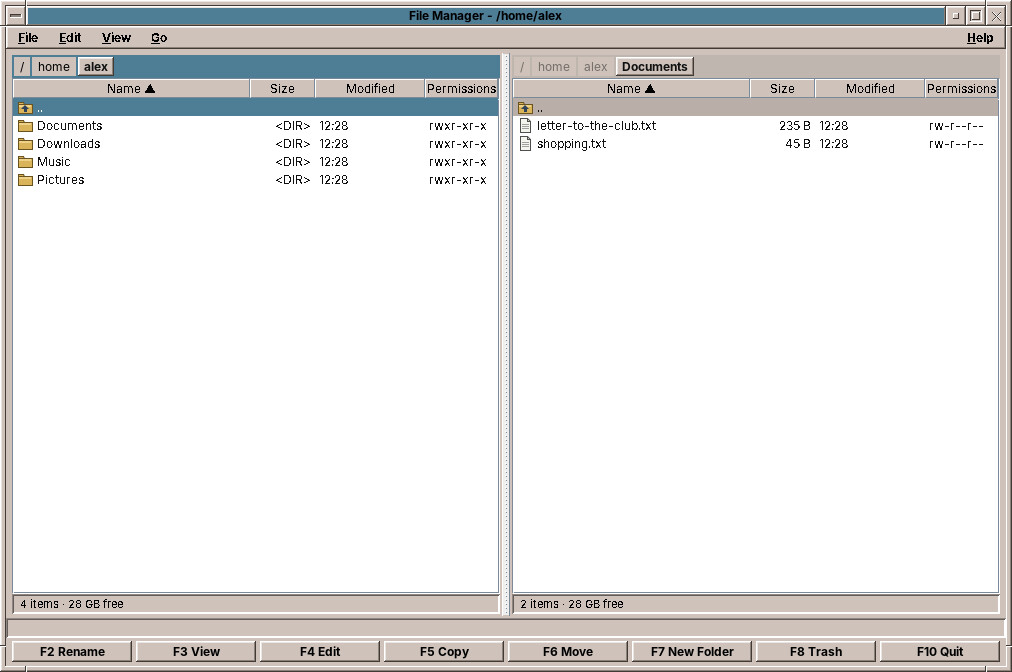
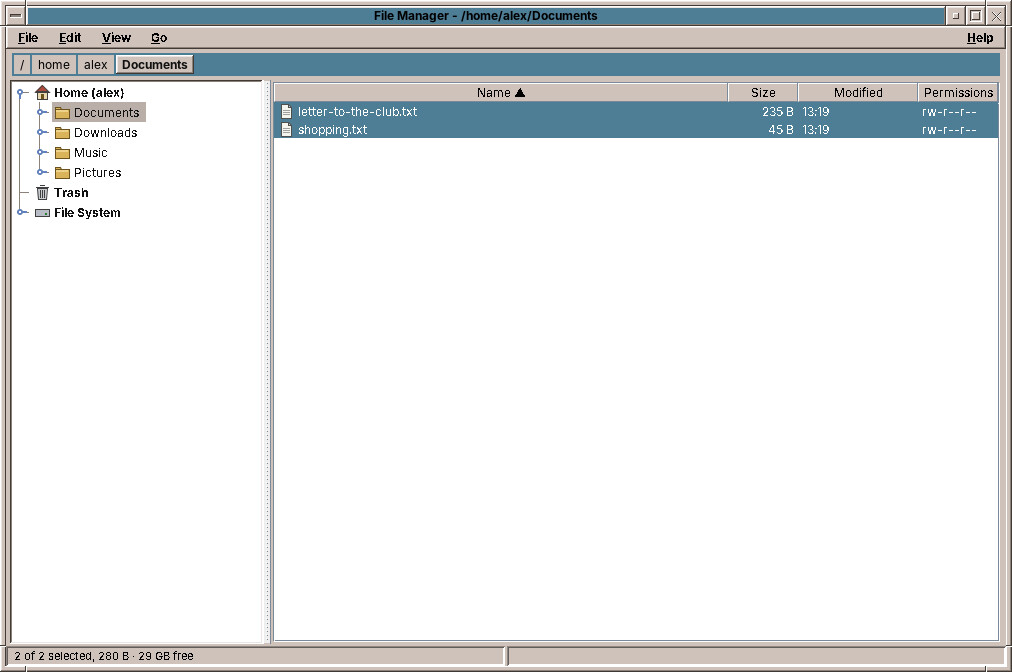
User's Handbook: File Manager chapter for the tree view (#60)
Chapter 41 describes the new default tree view (folder tree, context menus, cut/copy/paste,
drag and drop), the two-panel view behind Ctrl+2 and the editable path bar. shoot.sh takes
five pictures of it now (files_shots): tree view, context menu, drag note, path bar, two panels.
The CDE heritage table mentions the tree.

Claude-Session: https://claude.ai/code/session_01W4BtKSsPZ6tQJ8WjRFuub4

Changed region(s): [[0.0, 0.0625, 1.0, 1.0], [0.3676, 0.0, 0.582, 0.0312]]

diff --git a/docs/handbook/chapters/41-file-manager.md b/docs/handbook/chapters/41-file-manager.md
@@ -1,19 +1,71 @@
 # 41. File Manager
 
-The **File Manager** shows your folders and files in **two panels** side by side: one where things are, one where they should go. Copying a file is then one key, ++f5++. Anyone who knows Midnight Commander or Total Commander will feel at home; everybody else gets the function keys printed at the bottom of the window.
+The **File Manager** shows your folders and files in one of two views:
+
+- **The tree view** (the default) is the one you know from Windows Explorer or the Finder: your folders as a tree on the left, the contents of the chosen folder on the right. You work with the mouse: the right mouse button opens a menu, and files are dragged to where they should go.
+- **The two-panel view** shows two folders side by side: one where things are, one where they should go. Copying a file is then one key, ++f5++. Anyone who knows Midnight Commander or Total Commander will feel at home, and the function keys are printed at the bottom of the window.
+
+*View → Tree* (++ctrl+1++) and *View → Two Panels* (++ctrl+2++) switch between them. The File Manager remembers your choice.
 
 Start it with the File Manager slot of the Front Panel, which opens your home folder, or with `amade-files`.
 
-![The File Manager](images/41/file-manager.jpg)
+![The File Manager in its tree view](images/41/file-manager.jpg)
 
-## The window
+## The tree view
+
+- **The folder tree** on the left starts with your **Home** folder, the **Trash**, the **File System** (everything, from `/`) and every USB stick or disc that is plugged in; a stick appears a few seconds after you plug it in. Click the small handle in front of a folder to open it. Click a folder to see what is in it.
+- **The list** on the right shows the files of that folder with name, size, date and permissions. Click a column heading to sort by it. Click a file to select it, ++ctrl++-click to add more, ++shift++-click to select a range. Double-click opens a folder or opens a file with its program.
+- **The path bar** at the top shows where you are, one button per folder (see *Typing a path* below).
+- **The status line** at the bottom shows the selected files with their size and the free space on the disk, and on the right what the File Manager has just done.
+
+### The menu on the right mouse button
+
+Click a file with the right mouse button for what you can do with it: *Open*, *View*, *Edit in Text Editor*, *Cut*, *Copy*, *Paste*, *Rename…*, *Move to Trash*, *Delete Permanently…* and *Copy Path*. If several files are selected, the commands work on all of them.
+
+![The menu of two selected files](images/41/file-manager-context-menu.jpg)
+
+The right mouse button on a folder in the tree offers *New Folder…*, *Paste into Folder*, *Rename…*, *Move to Trash* and *Open in Two Panels*; on the free space below the files *New Folder…*, *Paste* and *Show Hidden Files*. In the trash the menu offers *Restore* and *Empty Trash…*. Your home folder, the trash, the file system and USB sticks cannot be moved, renamed or deleted.
+
+The keys work as in the menus. While the folder tree has the keyboard focus (click a folder, or ++tab++ to switch between tree and list), ++f2++, ++delete++ and ++ctrl+x++ work on the folder chosen in the tree.
+
+### Cut, copy and paste
+
+++ctrl+x++ (cut) or ++ctrl+c++ (copy) puts the selected files on the clipboard; ++ctrl+v++ in another folder moves or copies them there. Pasting copied files into their own folder makes a copy beside them, called `report (2).odt`. The clipboard also works with other file managers, so you can copy files between amadeOS and, say, Thunar or Nautilus.
+
+### Drag and drop
+
+Drag files with the mouse onto a folder, in the tree or in the list. A note next to the mouse says what will happen when you let go:
+
+![Two files dragged onto Downloads](images/41/file-manager-drag.jpg)
+
+- Without a key, files are **moved** within the same disk and **copied** onto another one, such as a USB stick.
+- Hold ++ctrl++ to copy, ++shift++ to move. ++escape++ cancels.
+- Dropping files on the **Trash** moves them to the trash.
+- If you rest the mouse on a closed folder of the tree, it opens, so you can go deeper.
+
+Files can also be dragged between the File Manager and other programs.
+
+!!! switching "Coming from Windows or macOS"
+    This is how Windows Explorer behaves: drag within a drive moves, drag to another drive copies. The Finder of macOS does the same. Only the keys differ: on a Mac, ++option++ copies.
+
+## The two-panel view
+
+![The two-panel view](images/41/file-manager-two-panels.jpg)
 
 - **The path bar** above each panel has one button per folder of the path, as in CDE: click one to go to that folder. The active panel has the coloured path bar.
-- **The list** shows name, size, date and permissions. Click a column heading to sort by it.
+- **The list** shows name, size, date and permissions; the line `..` leads to the folder above.
 - **The status line** below each panel shows the selected files with their size, and the free space on the disk.
 - **The function-key bar** at the bottom: each button does what its key does.
 
-*View → Two Panels* (++ctrl+f1++) switches to one panel and back.
+*View → Show Second Panel* (++ctrl+f1++) switches to one panel and back. The menu on the right mouse button, cut, copy and paste and drag and drop work here as well, also from one panel to the other. *Open in Two Panels* in the menu of a folder in the tree opens that folder here.
+
+## Typing a path
+
+Click the free space of the path bar, or press ++ctrl+l++, and the path becomes text you can type in. Type a folder, such as `~/Pictures` (`~` is your home folder), and press ++enter++; a file's path opens its folder with the file selected. ++tab++ completes the name of a folder, as in a terminal. ++escape++ goes back. The path is selected, so ++ctrl+c++ copies it.
+
+![The path bar as text, completed with Tab](images/41/file-manager-path-bar.jpg)
+
+The right mouse button on the path bar offers *Copy Path*, which copies the path of the folder you clicked, and *Edit Path*.
 
 ## Moving around
 
@@ -21,14 +73,15 @@ Start it with the File Manager slot of the Front Panel, which opens your home fo
 |---|---|
 | ++enter++ or double-click | Opens a folder, or opens a file with its program |
 | ++backspace++ | Goes to the folder above |
-| ++tab++ | Switches to the other panel |
-| ++ctrl+l++ | Go to a folder by typing its path (`~` for your home folder) |
+| ++ctrl+1++ / ++ctrl+2++ | Tree view / two-panel view |
+| ++tab++ | Switches to the other panel; in the tree view between tree and list |
+| ++ctrl+l++ | Type a path in the path bar (`~` for your home folder, ++tab++ completes) |
 | ++ctrl+h++ | Shows or hides hidden files |
 | ++ctrl+u++ | Swaps the two panels |
 | ++ctrl+equal++ | Shows the same folder in the other panel |
 | ++ctrl+r++ | Reads the folder again |
 
-## Selecting files
+## Selecting files in the two-panel view
 
 Selecting, called **marking**, is separate from the cursor bar. ++insert++ or ++space++ marks the file under the cursor and moves down; marked files are bold and red. With the mouse, ++ctrl++-click and ++shift++-click mark. ++ctrl+a++ marks all, ++ctrl+shift+a++ none, ++ctrl+i++ turns the marks around. Without marks, the commands work on the file under the cursor.
 
@@ -36,8 +89,9 @@ Selecting, called **marking**, is separate from the cursor bar. ++insert++ or ++
 
 | Key | What it does |
 |---|---|
-| ++f5++ | Copies to the folder of the other panel (the target can be changed) |
+| ++f5++ | Copies to the folder of the other panel (the target can be changed; in the tree view it asks) |
 | ++f6++ | Moves to the folder of the other panel |
+| ++ctrl+x++ / ++ctrl+c++ / ++ctrl+v++ | Cut / copy / paste files |
 | ++f2++ | Renames |
 | ++f7++ | Makes a new folder |
 | ++f3++ / ++f4++ | Opens the file in its program / in the Text Editor |
@@ -49,7 +103,7 @@ A copy is written under a hidden name first and gets its real name only when it 
 
 ## The trash
 
-++f8++ or ++delete++ moves files to the **trash**. The Trash Can at the right end of the Front Panel, or *Go → Trash*, shows what is in it, with the folder each file came from and when you threw it away.
+++f8++ or ++delete++ moves files to the **trash**, and so does dropping them on the Trash in the folder tree. The Trash Can at the right end of the Front Panel, the Trash in the tree, or *Go → Trash*, shows what is in it, with the folder each file came from and when you threw it away.
 
 - *File → Restore from Trash* puts the marked files back where they were.
 - *File → Empty Trash…* deletes everything in the trash for good, after asking.
@@ -61,7 +115,7 @@ A copy is written under a hidden name first and gets its real name only when it 
     The trash is the Recycle Bin or Bin you know. It follows the freedesktop.org standard, so other Linux programs see the same trash.
 
 !!! planned "Planned"
-    Folders that refresh by themselves, quick search by typing, tabs and bookmarks, an icon view with a folder tree, drag and drop, file properties and *Open With…*, archives as folders, and folders on other computers (SFTP).
+    Folders that refresh by themselves, quick search by typing, tabs and bookmarks, an icon view, dragging files onto the desktop and the Front Panel, file properties and *Open With…*, archives as folders, and folders on other computers (SFTP).
 
 ??? hood "Under the hood"
-    The settings, such as hidden files and the folders of both panels when you closed the File Manager, are in `~/.config/amadeos/files/files.conf`. `amade-files /tmp /media` opens the File Manager with these folders in the left and right panel, and `amade-files trash:` opens the trash.
+    The settings, such as the view, hidden files and the folders of both panels when you closed the File Manager, are in `~/.config/amadeos/files/files.conf`. `amade-files /tmp /media` opens the File Manager with these folders in the left and right panel, and `amade-files trash:` opens the trash.

diff --git a/docs/handbook/chapters/c-cde-heritage.md b/docs/handbook/chapters/c-cde-heritage.md
@@ -16,7 +16,7 @@ amadeOS follows the **Common Desktop Environment** (CDE), the desktop of the lar
 | Screen saver and lock | `dtscreen`, `dtsession` lock | Modules such as Qix and Swarm. | 34 |
 | Icons | The CDE icons | The NsCDE icon theme, in the style of CDE. | 31 |
 | Application Manager | `dtappmgr` | Lists all installed programs by kind, by itself. | 22 |
-| File Manager (`amade-files`) | `dtfile` | Two panels side by side; the path bar of CDE above each. | 41 |
+| File Manager (`amade-files`) | `dtfile` | A folder tree, or two panels side by side; the path bar of CDE above. | 41 |
 | Text Editor (`amade-pad`) | `dtpad` | Tabs for several files. | 42 |
 | Mailer (`amade-mail`) | `dtmail` | Folders of the mail server in a column, several accounts, HTML mail shown safely; CDE's letters `N`, `A`, `!`, `@` in the list. | 44 |
 | Calendar (`amade-calendar`) | `dtcm` | Stored as iCalendar, the standard format of other calendars. | 45 |
